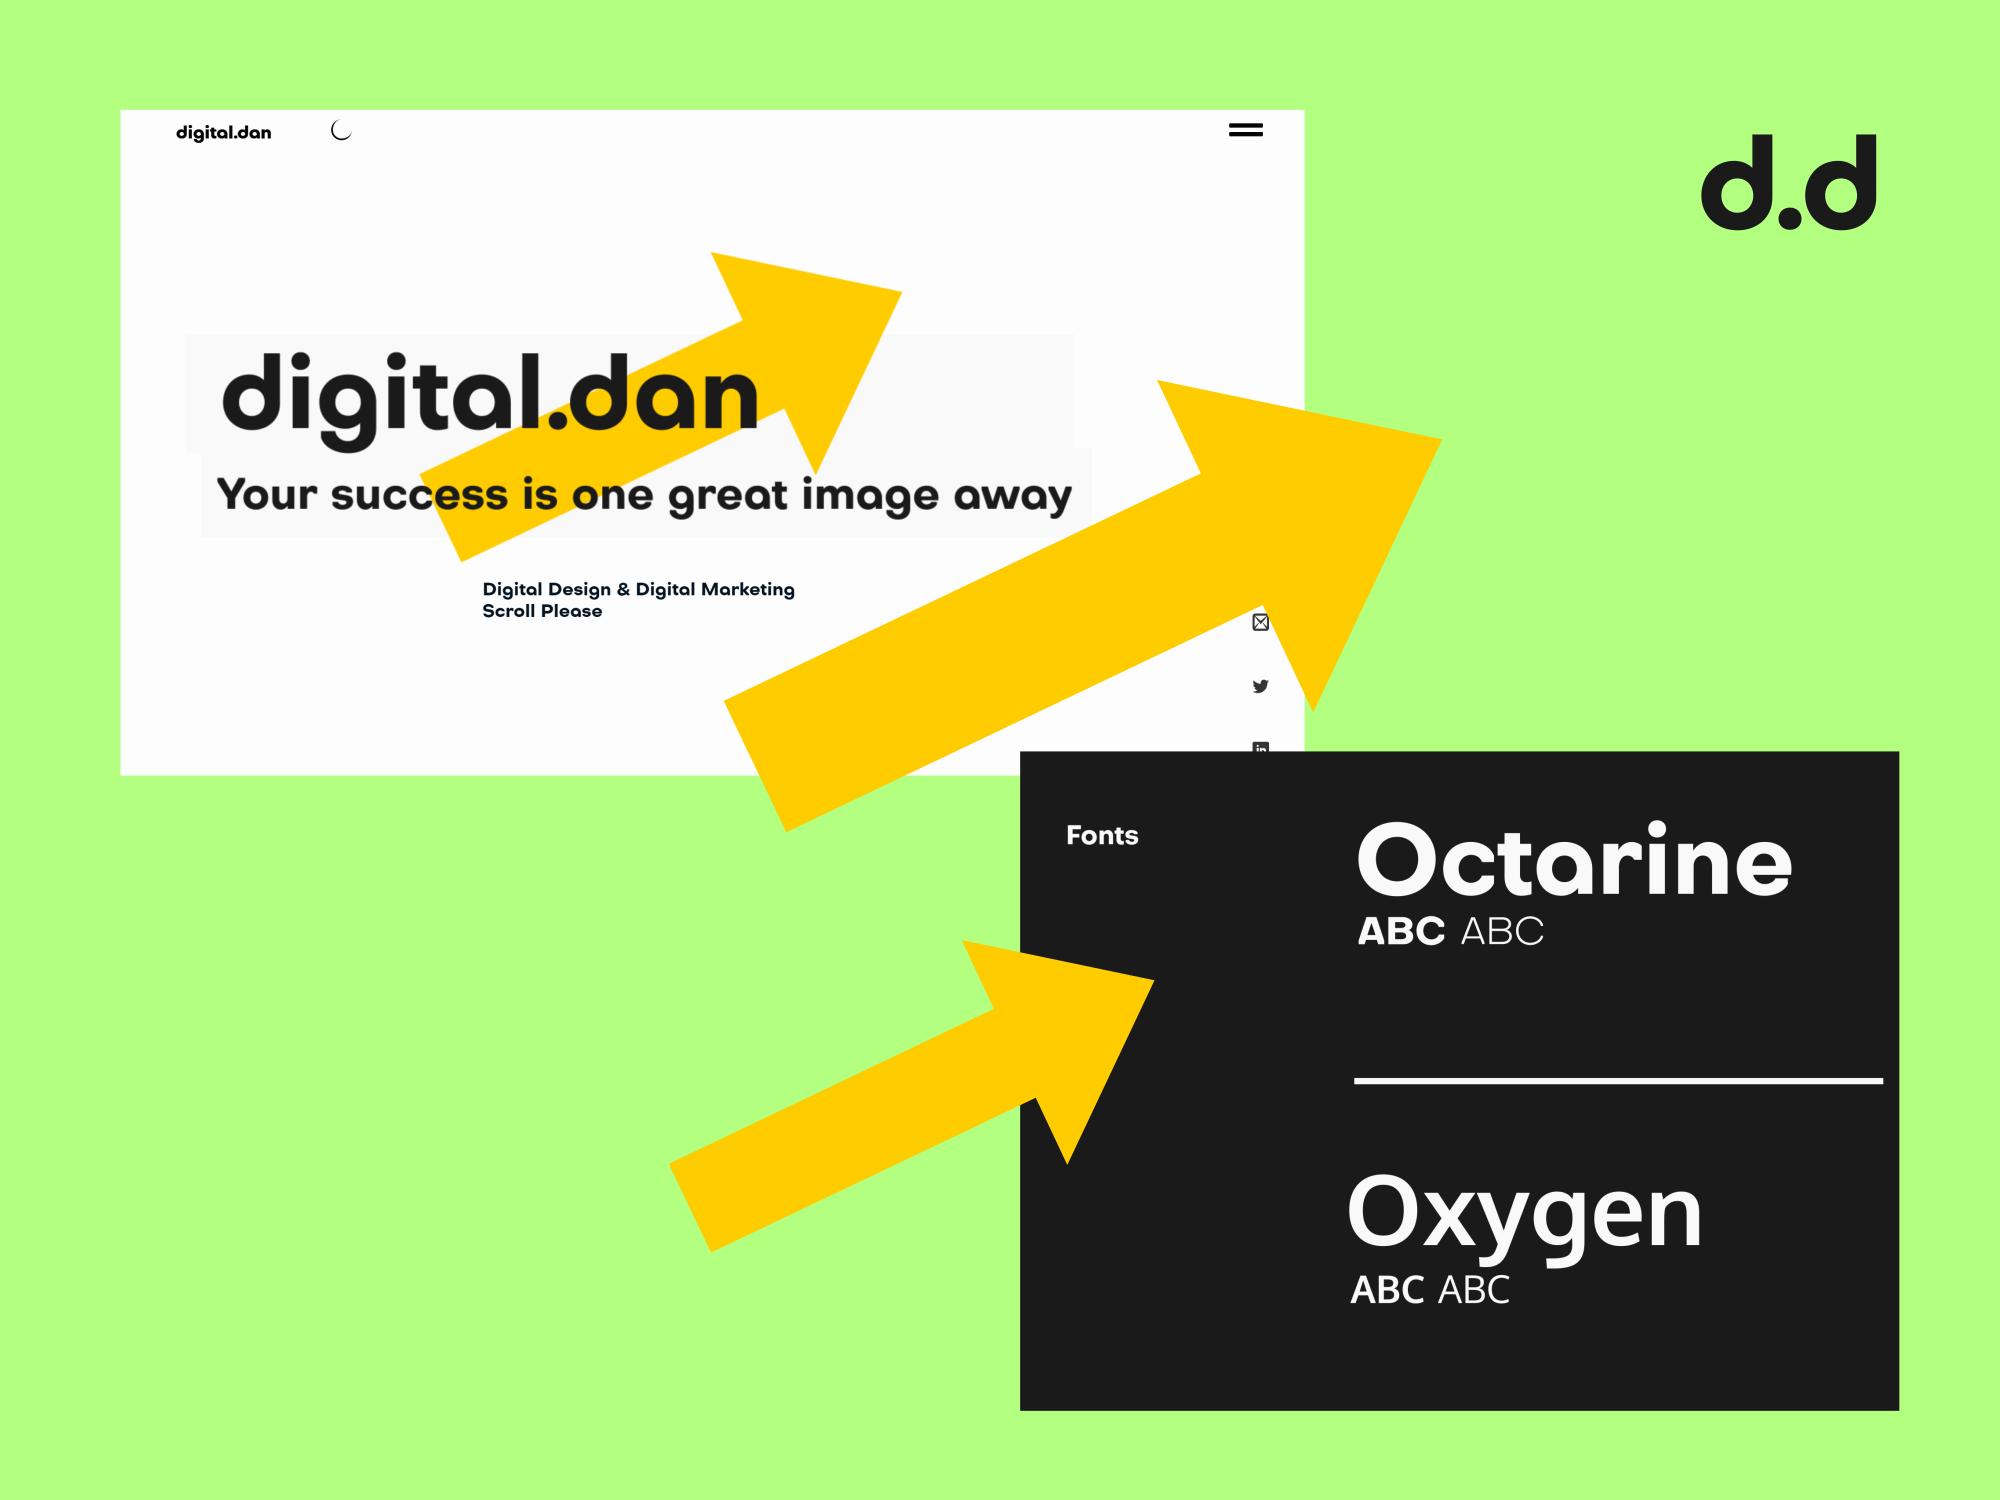
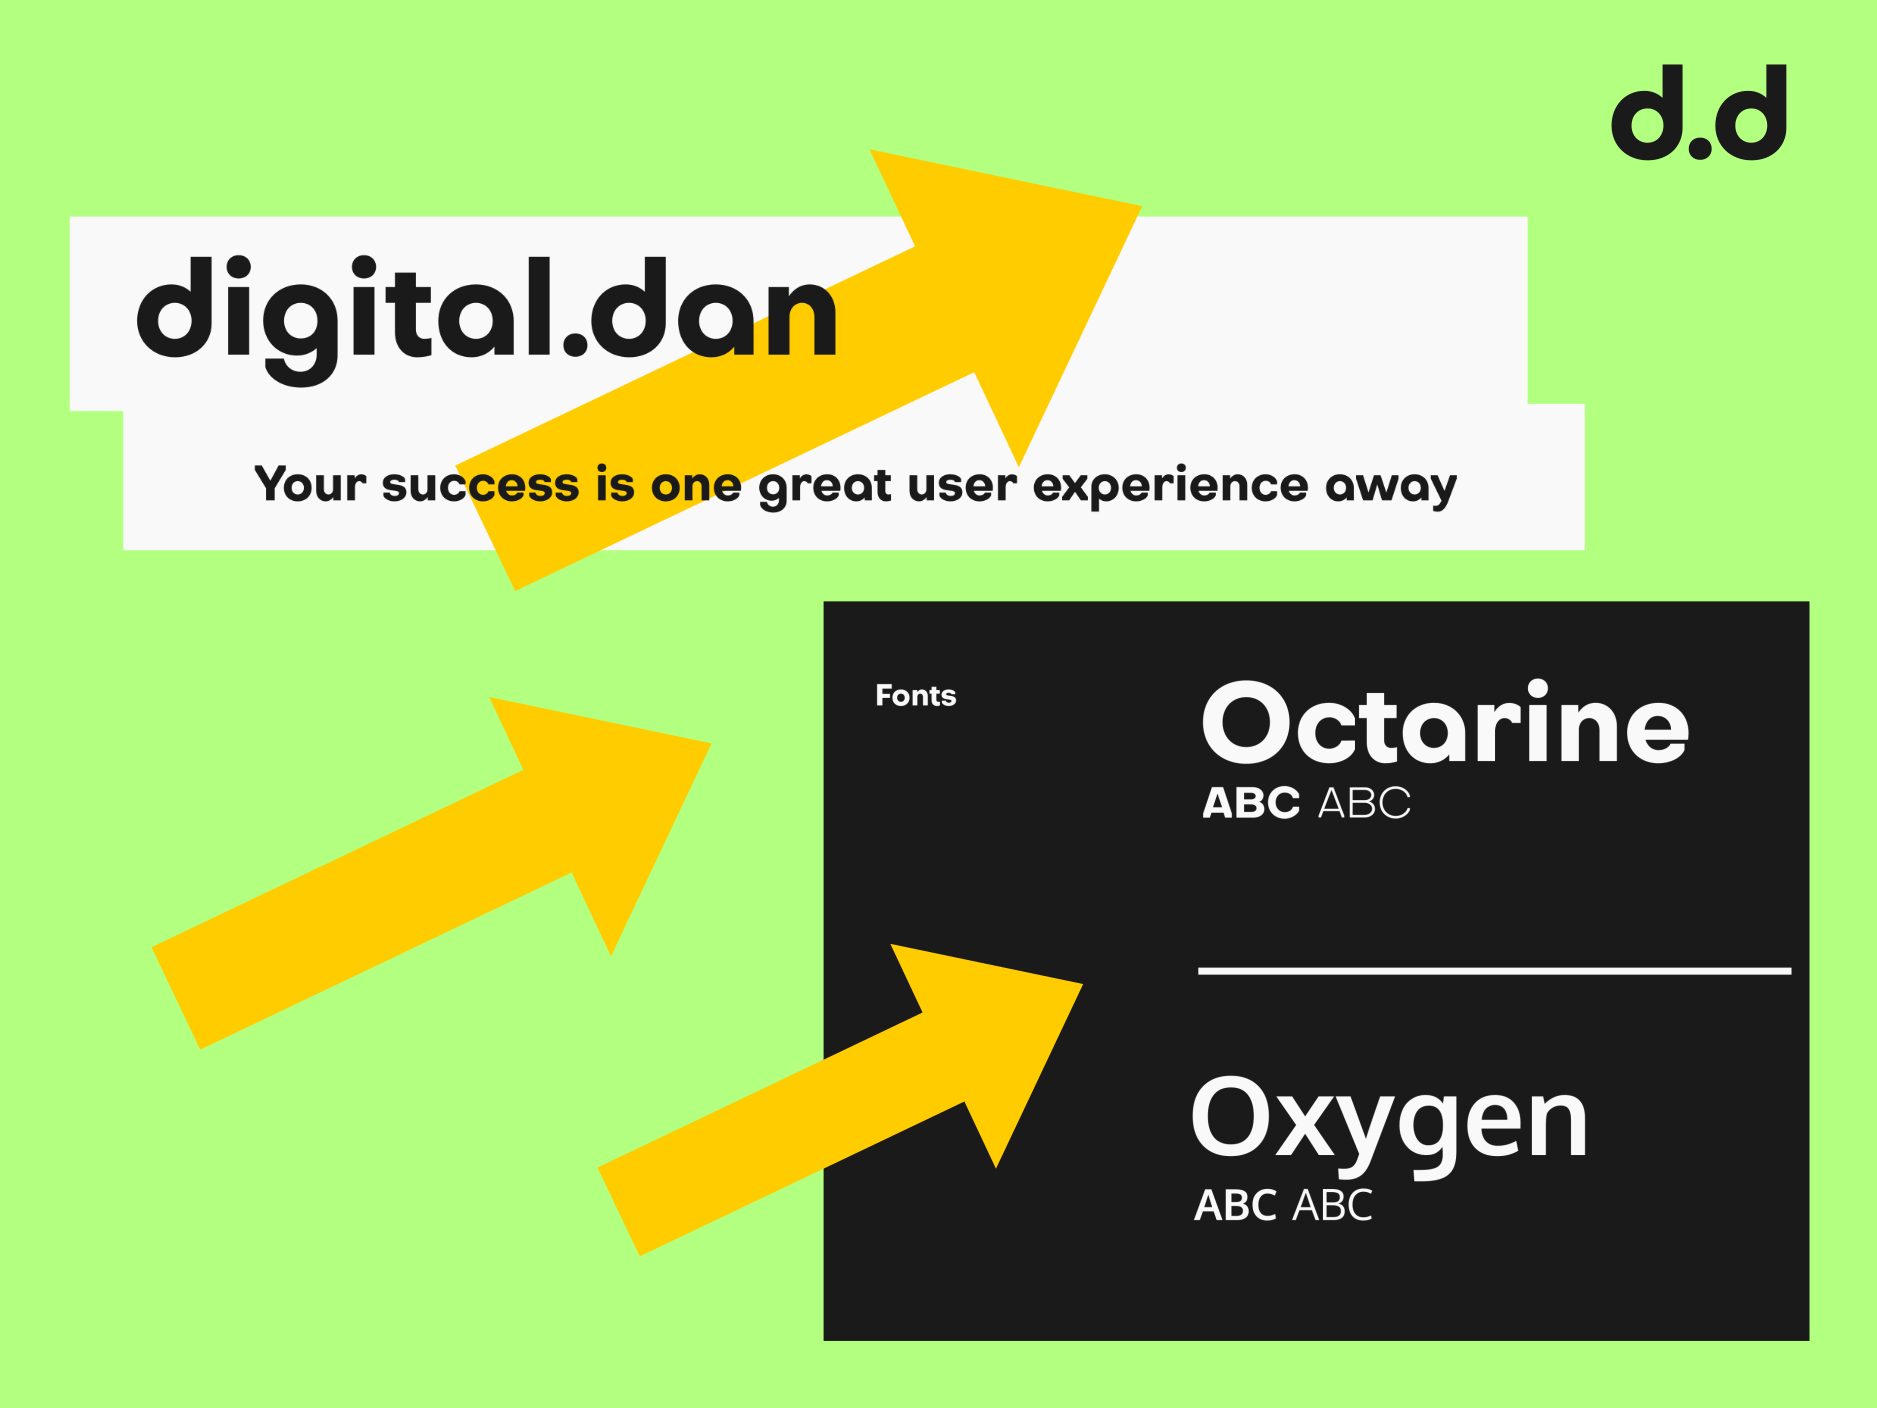
services overhaul

diff --git a/pages/_app.js b/pages/_app.js
@@ -31,43 +31,16 @@ function Application({ Component, pageProps }) {
       <Head>
         <meta http-equiv="Content-Type" content="text/html;charset=UTF-8" />
         <meta name="viewport" content="width=device-width, initial-scale=1.0" />
-        <meta name="keywords" content="digital agency
-digital design
-digital marketing
-web design
-website development
-social media marketing
-brand identity
-branding
-event planning
-presentation design
-graphic design
-content marketing
-search engine optimization (SEO)
-pay-per-click (PPC) advertising
-email marketing
-online advertising
-digital strategy
-user experience (UX)
-user interface (UI)
-mobile app development
-e-commerce
-conversion rate optimization (CRO)
-digital innovation
-customer engagement
-online presence
-digital transformation
-digital solutions
-technology
-creativity
-innovation" />
-        <meta name="description" content="Digitaldan Agency app, web + UI design & development, digital design for branding, social media marketing, events, presentations." />
+        <meta name="keywords" content="freelance, 
+        web developer, frontend, ux ui, design, user experience, conversion, seo, search engine optimization"
+        />
+        <meta name="description" content="Digitaldan Agency, Web Developement with focus on user experiences, SEO and conversion rates." />
         <meta http-equiv="X-UA-Compatible" content="IE=7" />
         <link rel="apple-touch-icon" sizes="180x180" href="/apple-touch-icon.png" />
         <link rel="icon" type="image/png" sizes="32x32" href="/favicon-32x32.png" />
         <link rel="icon" type="image/png" sizes="16x16" href="/favicon-16x16.png" />
         <link rel="manifest" href="/site.webmanifest" />
-        <title>Digitaldan Design & Marketing</title>
+        <title>Digitaldan Web development, UX/UI, SEO and Conversion</title>
       </Head>
 
 

diff --git a/components/About.js b/components/About.js
@@ -12,32 +12,25 @@ const About = () => {
     return (
         <>
             <main
-                className="h-auto flex flex-col justify-center py-[5vh]">
+                className="h-auto flex flex-col justify-center 
+                py-[10vh] lg:py-[25vh]
+                ">
 
                 <section className="paragraph flex justify-center items-center md:py-[2.5rem]
                 ">
                     <div>
                         <div>
                             <section className="text-[var(--stone)
-                            grid lg:grid-cols-2 md:w-[80vw] w-full grid-cols-1">
-
+                            grid grid-cols-1 md:w-[80vw] w-full">
                                 <div>
-                                    <h1 className="header">Welcome!</h1>
                                     <br />
-
-                                    <motion.p whileInView={paragraphAnimate} className="p-5">
-                                        I'm Daniel Hubschmann (Germany), freelance digital designer
-                                        and digital marketer.
-                                    </motion.p>
-
+                                </div>
+                                <div className='grid place-content-start'>
                                     <motion.p whileInView={paragraphAnimate} className="p-5">
 
 
                                         Please scroll or choose a link:
                                     </motion.p>
-
-                                </div>
-                                <div className='grid place-content-end'>
                                     <ArrowLinks>
                                         <Link href="#Work"
                                         >

diff --git a/components/Hero.js b/components/Hero.js
@@ -15,19 +15,25 @@ const Hero = () => {
         ease: "ease-in"
     }
     return (
-        <main className="h-screen py-[10rem] lg:py-[2rem] flex flex-col
+        <main className="h-[50vh] pt-[15rem] flex flex-col
         justify-center items-center">
             <motion.section className="md:px-[2rem]">
                 <section className="h-auto p-4 flex portrait:flex-col">
                     <motion.h1 animate={wedesignAnimate} className="
                         flex flex-col">
                         <Heroimage>
-                            <img src="./heroimg.png" alt="digital.dan design & marketing agency -  Your success is one great image away" />
+                            <img src="./heroimg.png"
+                                alt="digital.dan Freelance web developer, UX designer, SEO and Conversion -  
+                            Your success is one great user experience away"
+                            >
+                            </img>
+
                         </Heroimage>
                         <motion.div animate={wedesignAnimate2} className="font-bold herosubtext
                         mt-[0.5rem] mx-auto">
-                            Digital Design & Digital Marketing<br />
-                            Scroll Please<br />
+                            Web Development<br />
+                            User Experience (UX)<br /> SEO & Conversion<br />
+
 
                         </motion.div>
                     </motion.h1>

diff --git a/components/Heroimage.js b/components/Heroimage.js
@@ -2,7 +2,7 @@ import React from 'react'
 const Heroimage = ({ children }) => {
     const fullHeroWidth = React.Children.map(children, child => React.cloneElement(child, { className: 'w-full' }))
     return (
-        <div className="lg:w-[95%] h-auto mx-auto">{fullHeroWidth}</div>
+        <div className="lg:w-[85%] h-auto mx-auto">{fullHeroWidth}</div>
     )
 }
 
